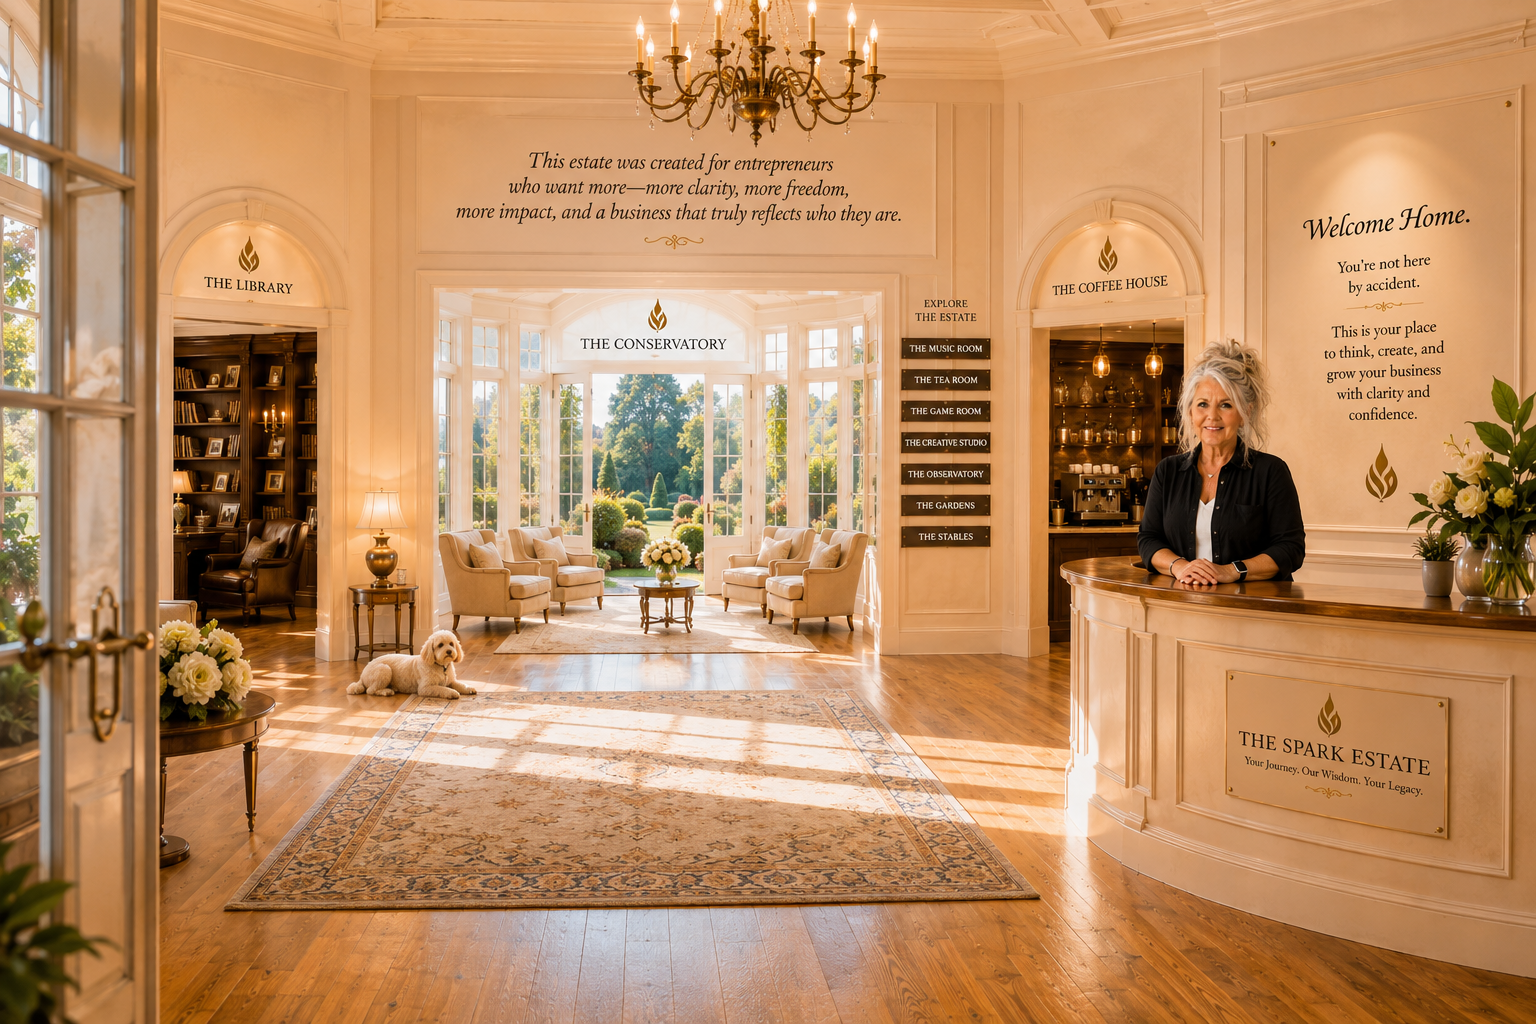
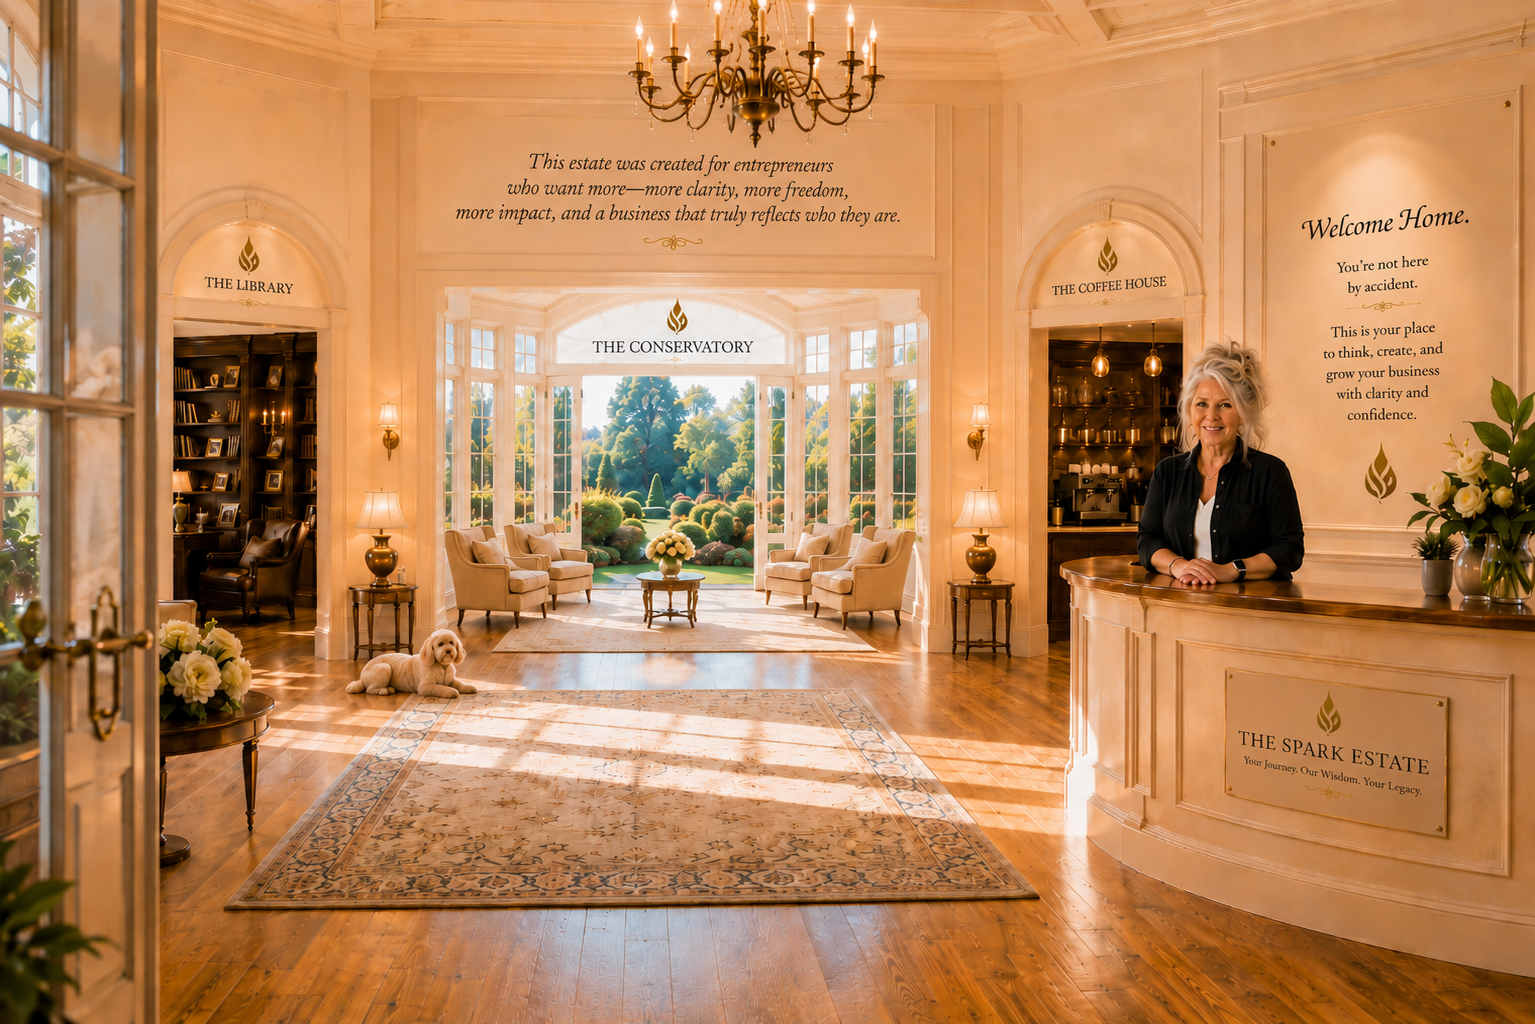
fix: restore estate background paths and reorganize audio assets
Point Evidence Vault and Momentum Institute to existing backgrounds and normalize soundscape filenames under public/audio.

diff --git a/lib/growth/growthRoom.ts b/lib/growth/growthRoom.ts
@@ -10,9 +10,8 @@ export const JOURNAL_ROOM_BG = ESTATE_ROOM_BG.gazeboJournal;
 export const EVIDENCE_VAULT_ENTRANCE_BG =
   "/backgrounds/evidence-vault-background.png" as const;
 
-/** Evidence Vault — interior room plate (journal workspace). */
-export const EVIDENCE_VAULT_ROOM_BG =
-  "/backgrounds/evidence-vault-room-background.png" as const;
+/** Evidence Vault — interior room plate (shares entrance plate until interior asset ships). */
+export const EVIDENCE_VAULT_ROOM_BG = ESTATE_ROOM_BG.evidenceVault;
 
 /** Portfolio — creative work archive, full-bleed background. */
 export const PORTFOLIO_ROOM_BG =

diff --git a/lib/estate/canonicalEstatePlaces.ts b/lib/estate/canonicalEstatePlaces.ts
@@ -767,7 +767,7 @@ export const CANONICAL_ESTATE_PLACES: readonly CanonicalEstatePlace[] = [
     officialName: "Momentum Institute",
     category: "destination",
     primaryFeeling: "Discovery, prestige, earned capability",
-    backgroundImage: "/backgrounds/the-momentum-institute-background.png",
+    backgroundImage: "/backgrounds/spark-chamber-of-momentum-background.png",
     aliases: [
       "momentum institute",
       "the momentum institute",

diff --git a/lib/growth/profileEstateRooms.test.ts b/lib/growth/profileEstateRooms.test.ts
@@ -49,7 +49,7 @@ describe("profileEstateRooms", () => {
       EVIDENCE_VAULT_ROOM_BG,
     );
     expect(profileEstateRoomBackgroundImage("evidence-vault")).toBe(
-      "/backgrounds/evidence-vault-room-background.png",
+      "/backgrounds/evidence-vault-background.png",
     );
     expect(profileEstateRoomBackgroundImage("portfolio")).toBe(PORTFOLIO_ROOM_BG);
     expect(profileEstateRoomBackgroundImage("portfolio")).toBe(